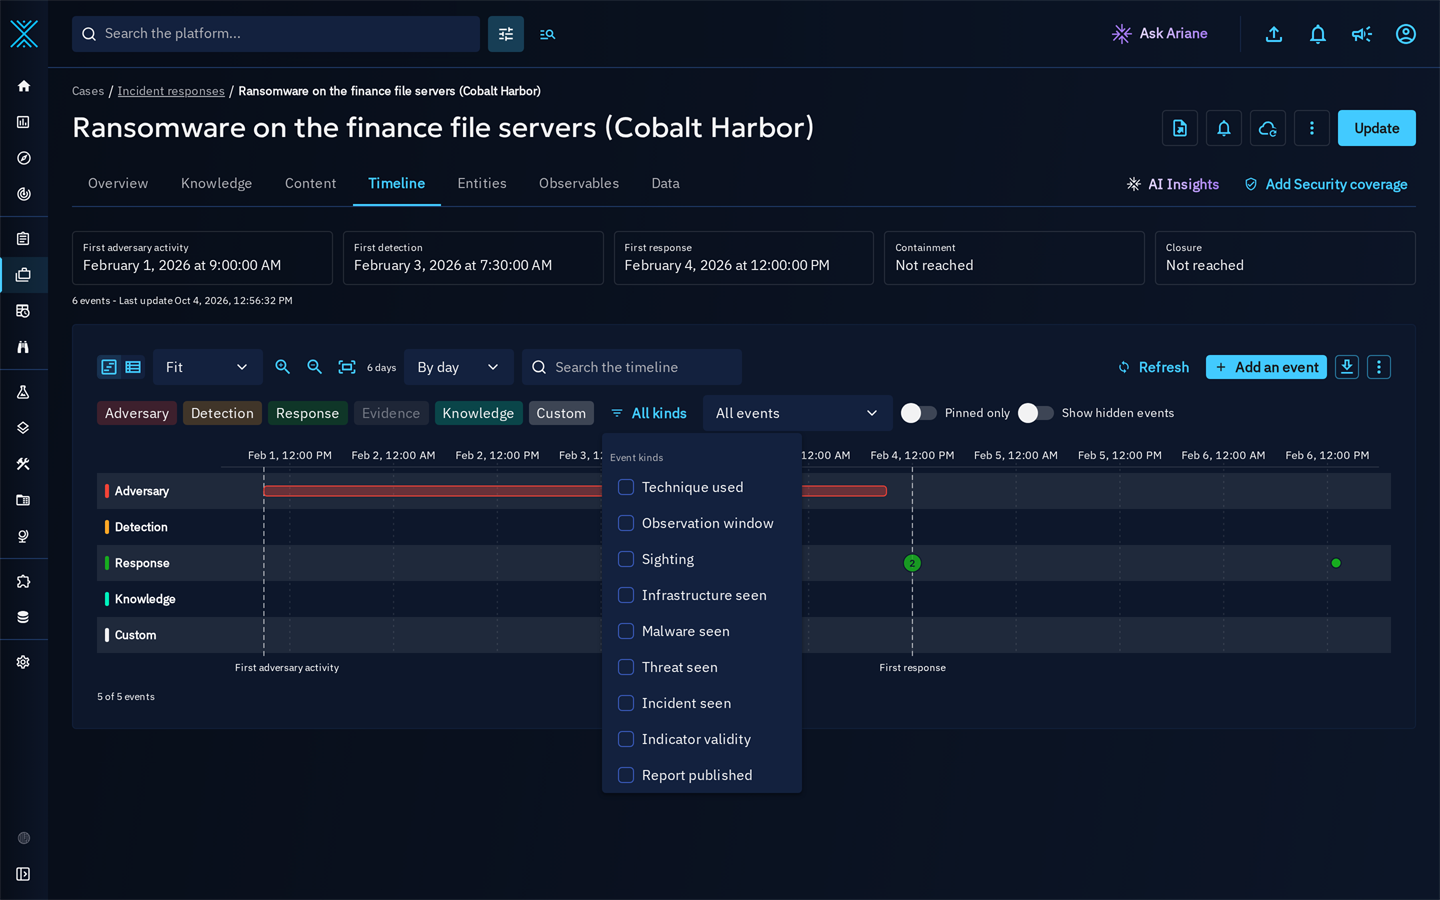
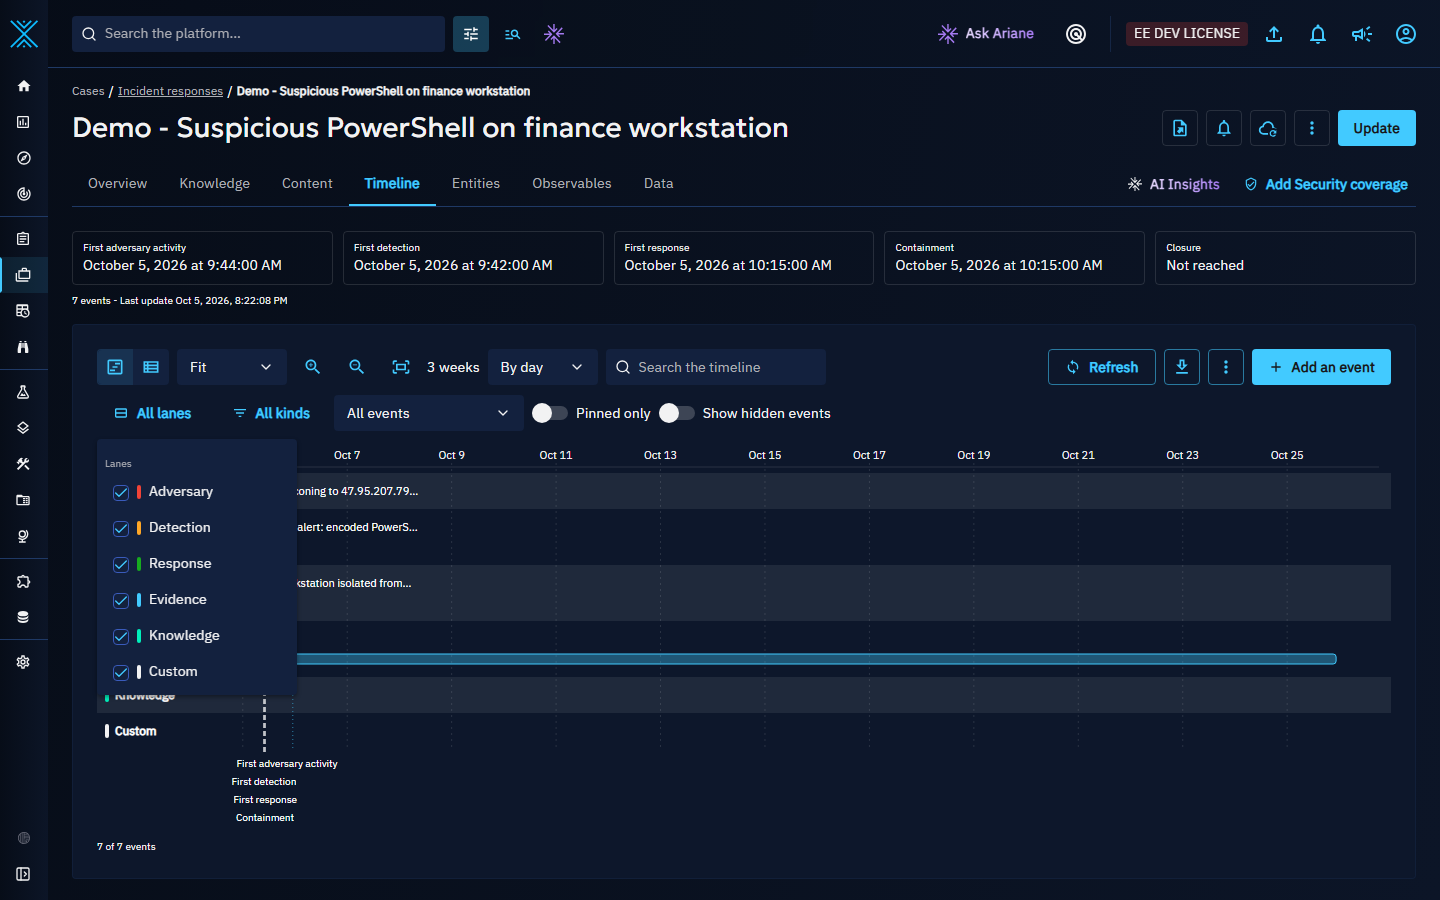
fix(timeline): align the timeline toolbar controls and actions with the layout grammar (#18681)
- One control height per toolbar: the view switch and the zoom, export and
  more-actions icon buttons use the 36 px size of the selects and of the search
  field next to them; Refresh and All kinds use it too.
- Lanes: the lane chips (24 px at most in the design system) become an
  "All lanes" menu of checkable lanes with their lane marker, like the
  "All kinds" menu next to it; the trigger counts the lanes shown.
- Pinned only and Show hidden events: the labels use the 14 px text of the
  toolbar, in a box of the control height.
- Actions: Refresh, Export the timeline and More actions form one secondary
  group, followed by the primary action Add an event, last on the right.
- New strings "All lanes" and "Lanes ({count})" in every language file; the
  unit tests and the e2e flow use the lanes menu; the user documentation and
  its screenshots show the new toolbar.

diff --git a/opencti-platform/opencti-front/src/private/components/common/timeline/ContainerTimelineToolbar.tsx b/opencti-platform/opencti-front/src/private/components/common/timeline/ContainerTimelineToolbar.tsx
@@ -1,11 +1,10 @@
-import React, { useEffect, useState } from 'react';
+import React, { useEffect, useId, useState } from 'react';
 import { useTheme } from '@mui/material/styles';
 import {
   Badge,
   ButtonGroup,
   ButtonGroupItem,
   Checkbox,
-  Chip,
   IconButton,
   Menu,
   MenuContent,
@@ -35,11 +34,13 @@ import {
   SettingsOutlined,
   SyncOutlined,
   ViewListOutlined,
+  ViewStreamOutlined,
   ViewTimelineOutlined,
   ZoomInOutlined,
   ZoomOutOutlined,
 } from '@mui/icons-material';
 import Button from '@common/button/Button';
+import type { Theme } from '../../../../components/Theme';
 import { useFormatter } from '../../../../components/i18n';
 import useTimelineColors from './useTimelineColors';
 import {
@@ -88,6 +89,22 @@ const WithTooltip = ({ title, children }: { title: string; children: React.React
   </Tooltip>
 );
 
+// The design-system switch writes its label in the compact 12px text: the toolbar writes it in the 14px text of its
+// selects and buttons, in a box of their height
+const ToolbarSwitch = ({ checked, onCheckedChange, label }: { checked: boolean; onCheckedChange: (checked: boolean) => void; label: string }) => {
+  const theme = useTheme<Theme>();
+  const id = useId();
+  return (
+    <label
+      htmlFor={id}
+      style={{ display: 'inline-flex', alignItems: 'center', gap: theme.spacing(1), height: theme.button.sizes.default.height, cursor: 'pointer' }}
+    >
+      <Switch id={id} checked={checked} onCheckedChange={onCheckedChange} />
+      <Text variant="content-base">{label}</Text>
+    </label>
+  );
+};
+
 const ContainerTimelineToolbar = ({
   state,
   onChange,
@@ -105,13 +122,14 @@ const ContainerTimelineToolbar = ({
   visibleDomain,
 }: ContainerTimelineToolbarProps) => {
   const { t_i18n } = useFormatter();
-  const theme = useTheme();
+  const theme = useTheme<Theme>();
   const colors = useTimelineColors();
   const visibleSpan = visibleDomain ? describeTimelineSpan(visibleDomain) : null;
   const lanes = TIMELINE_LANES.filter((lane) => enabledLanes.includes(lane));
   // A lane kept in the URL but disabled in the settings since is left out, as it is for the events shown
   const requestedLanes = state.lanes.filter((lane) => lanes.includes(lane));
   const selectedLanes = requestedLanes.length > 0 ? requestedLanes : lanes;
+  const allLanesSelected = selectedLanes.length === lanes.length;
   // The search field follows the URL (for example after "Clear filters") and keeps what is typed until it is submitted
   const [searchText, setSearchText] = useState(state.search ?? '');
   useEffect(() => setSearchText(state.search ?? ''), [state.search]);
@@ -131,7 +149,7 @@ const ContainerTimelineToolbar = ({
     <div style={{ display: 'flex', flexDirection: 'column', gap: theme.spacing(1.25), marginBottom: theme.spacing(1.5) }} data-testid="timeline-toolbar">
       <div style={{ display: 'flex', alignItems: 'center', gap: theme.spacing(1), flexWrap: 'wrap' }}>
         <ButtonGroup
-          size="sm"
+          size="md"
           value={state.view}
           onValueChange={(value) => value && onChange({ view: value as TimelineView })}
           aria-label={t_i18n('Timeline view')}
@@ -156,17 +174,17 @@ const ContainerTimelineToolbar = ({
         {state.view === 'lanes' && (
           <>
             <WithTooltip title={t_i18n('Zoom in')}>
-              <IconButton priority="tertiary" size="sm" aria-label={t_i18n('Zoom in')} icon={<ZoomInOutlined fontSize="small" />} onClick={() => onZoom(0.6)} />
+              <IconButton priority="tertiary" size="md" aria-label={t_i18n('Zoom in')} icon={<ZoomInOutlined fontSize="small" />} onClick={() => onZoom(0.6)} />
             </WithTooltip>
             <WithTooltip title={t_i18n('Zoom out')}>
-              <IconButton priority="tertiary" size="sm" aria-label={t_i18n('Zoom out')} icon={<ZoomOutOutlined fontSize="small" />} onClick={() => onZoom(1 / 0.6)} />
+              <IconButton priority="tertiary" size="md" aria-label={t_i18n('Zoom out')} icon={<ZoomOutOutlined fontSize="small" />} onClick={() => onZoom(1 / 0.6)} />
             </WithTooltip>
             <WithTooltip title={t_i18n('Fit the timeline')}>
-              <IconButton priority="tertiary" size="sm" aria-label={t_i18n('Fit the timeline')} icon={<FitScreenOutlined fontSize="small" />} onClick={onFit} />
+              <IconButton priority="tertiary" size="md" aria-label={t_i18n('Fit the timeline')} icon={<FitScreenOutlined fontSize="small" />} onClick={onFit} />
             </WithTooltip>
             {visibleSpan && (
               <WithTooltip title={t_i18n('Visible period')}>
-                <Text variant="content-caption" aria-live="polite" data-testid="timeline-visible-span" style={{ color: colors.textSecondary }}>
+                <Text variant="content-base" aria-live="polite" data-testid="timeline-visible-span" style={{ color: colors.textSecondary }}>
                   {t_i18n(TIMELINE_SPAN_LABELS[visibleSpan.unit], { values: { count: visibleSpan.count } })}
                 </Text>
               </WithTooltip>
@@ -199,8 +217,7 @@ const ContainerTimelineToolbar = ({
         <div style={{ flex: 1 }} />
         <Badge content={liveUpdates} max={99} tone="brand" invisible={liveUpdates === 0}>
           <Button
-            variant="tertiary"
-            size="small"
+            variant="secondary"
             startIcon={<SyncOutlined fontSize="small" />}
             onClick={onRefresh}
             aria-label={liveUpdates > 0 ? t_i18n('{count, plural, one {# new timeline update} other {# new timeline updates}}, refresh', { values: { count: liveUpdates } }) : t_i18n('Refresh')}
@@ -209,14 +226,9 @@ const ContainerTimelineToolbar = ({
             {liveUpdates > 0 ? t_i18n('New updates') : t_i18n('Refresh')}
           </Button>
         </Badge>
-        {canEdit && (
-          <Button variant="primary" size="small" startIcon={<AddOutlined fontSize="small" />} onClick={onAdd} data-testid="timeline-add-milestone">
-            {t_i18n('Add an event')}
-          </Button>
-        )}
         <Menu>
           <MenuTrigger asChild>
-            <IconButton priority="secondary" size="sm" aria-label={t_i18n('Export the timeline')} icon={<GetAppOutlined fontSize="small" />} data-testid="timeline-export" />
+            <IconButton priority="secondary" size="md" aria-label={t_i18n('Export the timeline')} icon={<GetAppOutlined fontSize="small" />} data-testid="timeline-export" />
           </MenuTrigger>
           <MenuContent align="end">
             <MenuLabel>{t_i18n('Export the timeline')}</MenuLabel>
@@ -229,7 +241,7 @@ const ContainerTimelineToolbar = ({
         {canEdit && (
           <Menu>
             <MenuTrigger asChild>
-              <IconButton priority="secondary" size="sm" aria-label={t_i18n('More actions')} icon={<MoreVertOutlined fontSize="small" />} data-testid="timeline-more-actions" />
+              <IconButton priority="secondary" size="md" aria-label={t_i18n('More actions')} icon={<MoreVertOutlined fontSize="small" />} data-testid="timeline-more-actions" />
             </MenuTrigger>
             <MenuContent align="end">
               <MenuItem onSelect={onOpenSettings} data-testid="timeline-open-settings">
@@ -243,35 +255,49 @@ const ContainerTimelineToolbar = ({
             </MenuContent>
           </Menu>
         )}
+        {canEdit && (
+          <Button variant="primary" startIcon={<AddOutlined fontSize="small" />} onClick={onAdd} data-testid="timeline-add-milestone">
+            {t_i18n('Add an event')}
+          </Button>
+        )}
       </div>
       <div style={{ display: 'flex', alignItems: 'center', gap: theme.spacing(1), flexWrap: 'wrap' }}>
-        <div role="group" aria-label={t_i18n('Lanes')} style={{ display: 'flex', gap: theme.spacing(0.75), flexWrap: 'wrap' }}>
-          {lanes.map((lane) => {
-            const active = selectedLanes.includes(lane);
-            return (
-              <Chip
-                key={lane}
-                label={t_i18n(TIMELINE_LANE_LABELS[lane])}
-                color={active ? colors.lanes[lane] : undefined}
-                onClick={() => toggleLane(lane)}
-                role="checkbox"
-                aria-checked={active}
-                tabIndex={0}
-                onKeyDown={(event) => {
-                  if (event.key === 'Enter' || event.key === ' ') {
-                    event.preventDefault();
-                    toggleLane(lane);
-                  }
-                }}
-                style={{ opacity: active ? 1 : 0.45 }}
-                data-testid={`timeline-lane-${lane}`}
-              />
-            );
-          })}
-        </div>
         <Menu>
           <MenuTrigger asChild>
-            <Button variant="tertiary" size="small" startIcon={<FilterListOutlined fontSize="small" />}>
+            <Button variant="tertiary" startIcon={<ViewStreamOutlined fontSize="small" />} data-testid="timeline-lanes-filter">
+              {allLanesSelected ? t_i18n('All lanes') : t_i18n('Lanes ({count})', { values: { count: selectedLanes.length } })}
+            </Button>
+          </MenuTrigger>
+          <MenuContent align="start">
+            <MenuLabel>{t_i18n('Lanes')}</MenuLabel>
+            {lanes.map((lane) => {
+              const active = selectedLanes.includes(lane);
+              return (
+                <MenuItem
+                  key={lane}
+                  role="menuitemcheckbox"
+                  aria-checked={active}
+                  startIcon={<Checkbox checked={active} presentational />}
+                  onSelect={(event) => {
+                    // Keep the menu open while several lanes are switched
+                    event.preventDefault();
+                    toggleLane(lane);
+                  }}
+                  data-testid={`timeline-lane-${lane}`}
+                >
+                  <span style={{ display: 'inline-flex', alignItems: 'center', gap: theme.spacing(1) }}>
+                    {/* The marker of the lane in the lanes view */}
+                    <span aria-hidden="true" style={{ width: 4, height: 14, borderRadius: 2, backgroundColor: colors.lanes[lane] }} />
+                    {t_i18n(TIMELINE_LANE_LABELS[lane])}
+                  </span>
+                </MenuItem>
+              );
+            })}
+          </MenuContent>
+        </Menu>
+        <Menu>
+          <MenuTrigger asChild>
+            <Button variant="tertiary" startIcon={<FilterListOutlined fontSize="small" />}>
               {state.kinds.length > 0 ? t_i18n('Kinds ({count})', { values: { count: state.kinds.length } }) : t_i18n('All kinds')}
             </Button>
           </MenuTrigger>
@@ -314,12 +340,12 @@ const ContainerTimelineToolbar = ({
             <SelectItem value="manual">{t_i18n('Analyst milestones')}</SelectItem>
           </SelectContent>
         </Select>
-        <Switch
+        <ToolbarSwitch
           checked={state.pinnedOnly}
           onCheckedChange={(checked) => onChange({ pinnedOnly: checked })}
           label={t_i18n('Pinned only')}
         />
-        <Switch
+        <ToolbarSwitch
           checked={state.includeHidden}
           onCheckedChange={(checked) => onChange({ includeHidden: checked })}
           label={t_i18n('Show hidden events')}

diff --git a/opencti-platform/opencti-front/src/private/components/common/timeline/ContainerTimelineToolbar.test.tsx b/opencti-platform/opencti-front/src/private/components/common/timeline/ContainerTimelineToolbar.test.tsx
@@ -50,11 +50,31 @@ describe('ContainerTimelineToolbar', () => {
     expect(onChange).toHaveBeenCalledWith({ kinds: ['sighting', 'malware_seen'] });
   });
 
-  it('shows every enabled lane selected when the lane kept in the URL was disabled since', () => {
+  it('shows every enabled lane selected when the lane kept in the URL was disabled since', async () => {
     const enabled = TIMELINE_LANES.filter((lane) => lane !== 'evidence');
-    testRender(<ContainerTimelineToolbar {...toolbarProps(baseState({ lanes: ['evidence'] }), vi.fn(), enabled)} />);
+    const { user } = testRender(<ContainerTimelineToolbar {...toolbarProps(baseState({ lanes: ['evidence'] }), vi.fn(), enabled)} />);
+    await user.click(screen.getByRole('button', { name: 'All lanes' }));
     expect(screen.queryByTestId('timeline-lane-evidence')).toBeNull();
     enabled.forEach((lane) => expect(screen.getByTestId(`timeline-lane-${lane}`)).toHaveAttribute('aria-checked', 'true'));
+  });
+
+  it('counts the lanes shown and switches one off from the lanes menu', async () => {
+    const onChange = vi.fn();
+    const { user } = testRender(<ContainerTimelineToolbar {...toolbarProps(baseState({ lanes: ['adversary', 'detection'] }), onChange)} />);
+    await user.click(screen.getByRole('button', { name: 'Lanes (2)' }));
+    expect(screen.getByRole('menuitemcheckbox', { name: 'Response' })).toHaveAttribute('aria-checked', 'false');
+    await user.click(screen.getByRole('menuitemcheckbox', { name: 'Detection' }));
+    expect(onChange).toHaveBeenCalledWith({ lanes: ['adversary'] });
+  });
+
+  it('names the switches by their labels and puts the primary action last', async () => {
+    const onChange = vi.fn();
+    const { user } = testRender(<ContainerTimelineToolbar {...toolbarProps(baseState(), onChange)} />);
+    await user.click(screen.getByRole('switch', { name: 'Pinned only' }));
+    expect(onChange).toHaveBeenCalledWith({ pinnedOnly: true });
+    expect(screen.getByRole('switch', { name: 'Show hidden events' })).toBeInTheDocument();
+    const firstRow = screen.getByTestId('timeline-toolbar').firstElementChild as HTMLElement;
+    expect(firstRow.lastElementChild).toContainElement(screen.getByTestId('timeline-add-milestone'));
   });
 
   it('keeps the search field in line with the view state', async () => {

diff --git a/opencti-platform/opencti-front/tests_e2e/timeline/caseTimeline.spec.ts b/opencti-platform/opencti-front/tests_e2e/timeline/caseTimeline.spec.ts
@@ -78,9 +78,13 @@ test('Incident and case timeline', { tag: ['@ce', '@group1'] }, async ({ page, r
     // endregion
 
     // region Filters: one lane switched off and the kinds menu open
+    const lanesFilter = page.getByTestId('timeline-lanes-filter');
     const evidenceLane = page.getByTestId('timeline-lane-evidence');
+    await lanesFilter.click();
     await evidenceLane.click();
     await expect(evidenceLane).toHaveAttribute('aria-checked', 'false');
+    await page.keyboard.press('Escape');
+    await expect(lanesFilter).toHaveText(/^Lanes \(\d+\)$/);
     await expect(page.getByTestId('timeline-lanes')).toBeVisible();
     await page.getByRole('button', { name: 'All kinds' }).click();
     await expect(page.getByText('Event kinds', { exact: true })).toBeVisible();
@@ -88,8 +92,11 @@ test('Incident and case timeline', { tag: ['@ce', '@group1'] }, async ({ page, r
     await expect(page.getByRole('menuitemcheckbox', { name: 'Malware seen', exact: true })).toHaveAttribute('aria-checked', 'false');
     await capture('filters');
     await page.keyboard.press('Escape');
+    await lanesFilter.click();
     await evidenceLane.click();
     await expect(evidenceLane).toHaveAttribute('aria-checked', 'true');
+    await page.keyboard.press('Escape');
+    await expect(lanesFilter).toHaveText('All lanes');
     // endregion
 
     // region List view, keyboard navigation, pin

diff --git a/docs/docs/usage/case-timeline.md b/docs/docs/usage/case-timeline.md
@@ -120,15 +120,17 @@ When the events cannot be loaded, the tab says so, suggests checking the connect
 
 ### Views and navigation
 
-- **Lanes** and **List**: the view switch is always visible in the toolbar, next to the primary action **Add an event**. The list view is a vertical, accessible list of events.
+![Toolbar of the Timeline tab: view switch, zoom, grouping and search, then the actions; the filters on the second row](assets/case-timeline-toolbar.png)
+
+- **Lanes** and **List**: the view switch is always visible at the start of the toolbar; the primary action **Add an event** closes it on the right, after **Refresh**, **Export the timeline** and **More actions**. The list view is a vertical, accessible list of events.
 - **Zoom window**: Fit, Day, Week, Month, Quarter or Year; the period currently displayed is shown next to the zoom controls. In the lanes view, use `+` and `-` to zoom, the left and right arrows to pan and `0` to fit. On long incidents, nearby events are grouped into a count bubble that zooms in on click.
 - **Group by**: hour, day or week.
-- **Search** and filters: lanes, event kinds, event source (all events, derived from the knowledge or analyst milestones), **Pinned only** and **Show hidden events**.
+- **Search** and filters: lanes (**All lanes** menu, every lane shown by default), event kinds (**All kinds** menu), event source (all events, derived from the knowledge or analyst milestones), **Pinned only** and **Show hidden events**.
 - The current view (filters, zoom, grouping, mode) is kept in the URL, so that a view can be shared with a link.
 - The latest 500 events matching the filters are loaded first and displayed in chronological order; **Show earlier events** loads the previous ones. A link to an older event loads the earlier events until it is reached.
 - In the list view, use the up and down arrows to move between events, `Enter` to open an event, `P` to pin and `H` to hide it.
 
-![Filters of the timeline: the Evidence lane switched off and the event kinds menu open](assets/case-timeline-filters.png)
+![Filters of the timeline: the lanes menu open, every lane shown](assets/case-timeline-filters.png)
 
 ![List view of the timeline, events grouped by day](assets/case-timeline-list-populated.png)
 
